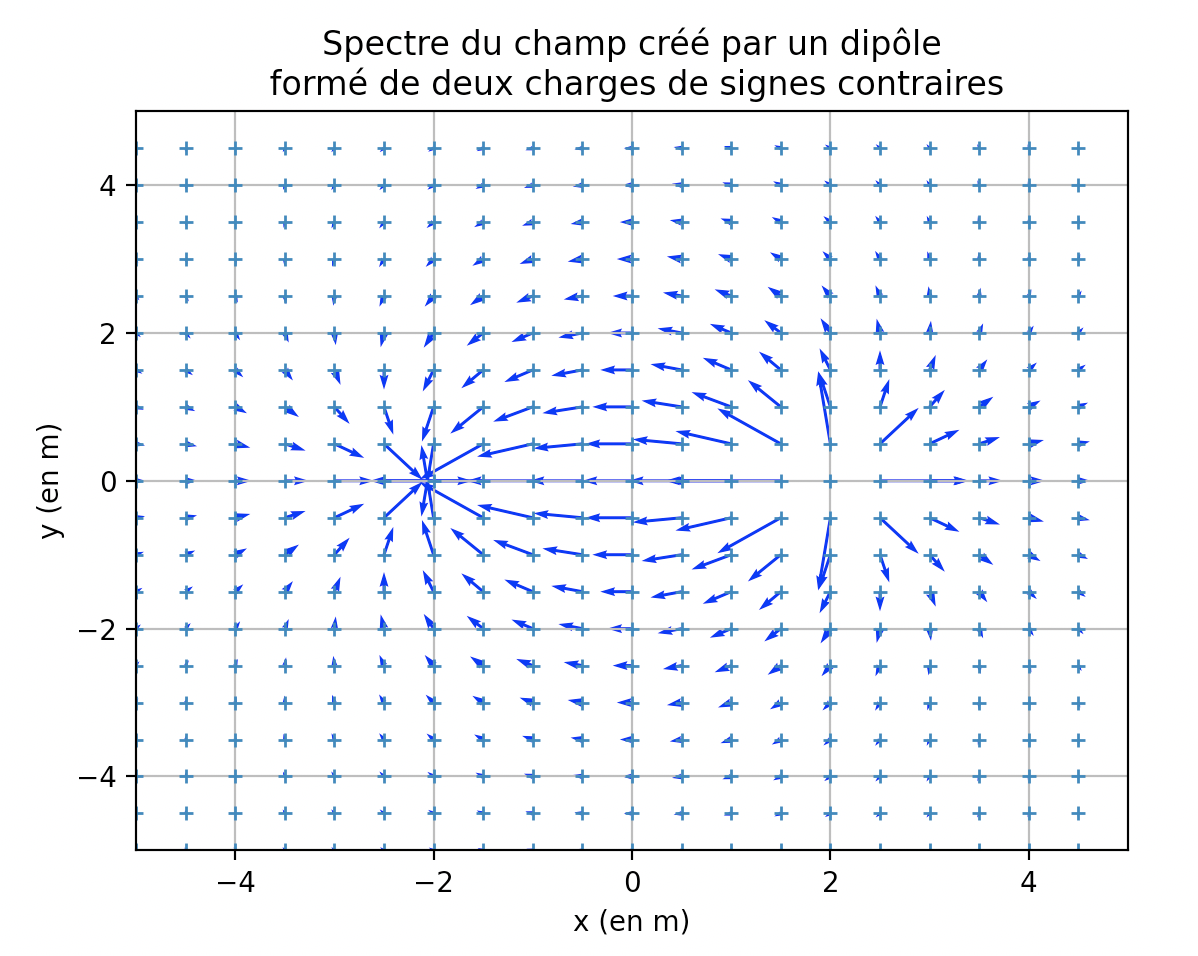
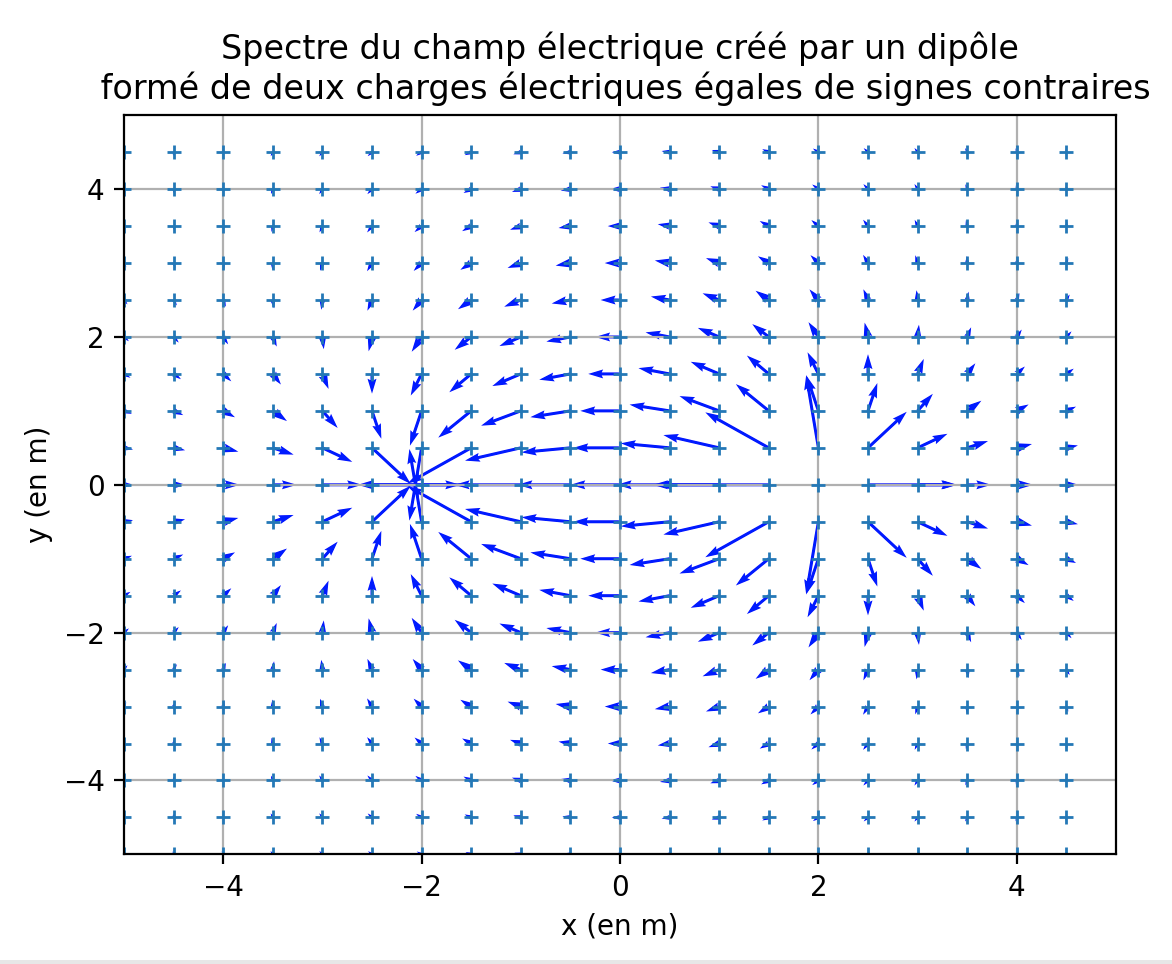
10.1.23

Changed region(s): [[0.0307, 0.0303, 0.9829, 0.9707]]

diff --git a/Ressources_Physique/cartographie_champ.md b/Ressources_Physique/cartographie_champ.md
@@ -4,12 +4,14 @@ Cartographie du champ électrique
 **1) Champ électrique créé par une charge positive**
 
 ```python
-import matplotlib.pyplot as plt
+import matplotlib.pyplot as plt#importation d'une bibliothèque pour les tracés
 points=[(i*0.5,j*0.5) for i in range(-10,10) for j in range(-10,10)]
-x=[points[i][0] for i in range(len(points))]
-y=[points[i][1] for i in range(len(points))]
+#on créé une liste points par compréhension, abscisses et ordonnées varient entre -5 et +5
+x=[points[i][0] for i in range(len(points))]#on récupère une liste x des abscisses de ses points
+y=[points[i][1] for i in range(len(points))]#on récupère une liste y des ordonnées de ses points
+
 plt.axis([ -5, 5, -5, 5 ])
-plt.plot(x,y,'+',markersize=5)
+plt.plot(x,y,'+',markersize=5)#on affiche ces points sur un graphe
 
 def signe(x):
     if x>0:
@@ -17,12 +19,12 @@ def signe(x):
     else:
         return -1
 
-def calcul_norme_champ(a,b,c,d,q):
+def calcul_norme_champ(a,b,c,d,q):#calcul la norme du champ au point (c,d) créé par la charge q placée en (a,b)
     return (abs(q)/((a-c)**2+(b-d)**2))
 
-c=2#abscisse de la charge
-d=0#ordonnée de la charge
-q=1#valeur de la charge
+c=2#abscisse de la charge placée dans l'espace
+d=0#ordonnée de cette charge
+# q=1#valeur de la charge électrique positive placée au point (2,0)
 
 for point in points:
     if point != (c,d):
@@ -119,7 +121,7 @@ for point in points:
 
 plt.xlabel("x (en m)")
 plt.ylabel("y (en m)")
-plt.title ("Spectre du champ créé par un dipôle\n formé de deux charges de signes contraires")
+plt.title ("Spectre du champ électrique créé par un dipôle\n formé de deux charges électriques égales de signes contraires")
 plt.grid()
 plt.show()
 plt.close()
